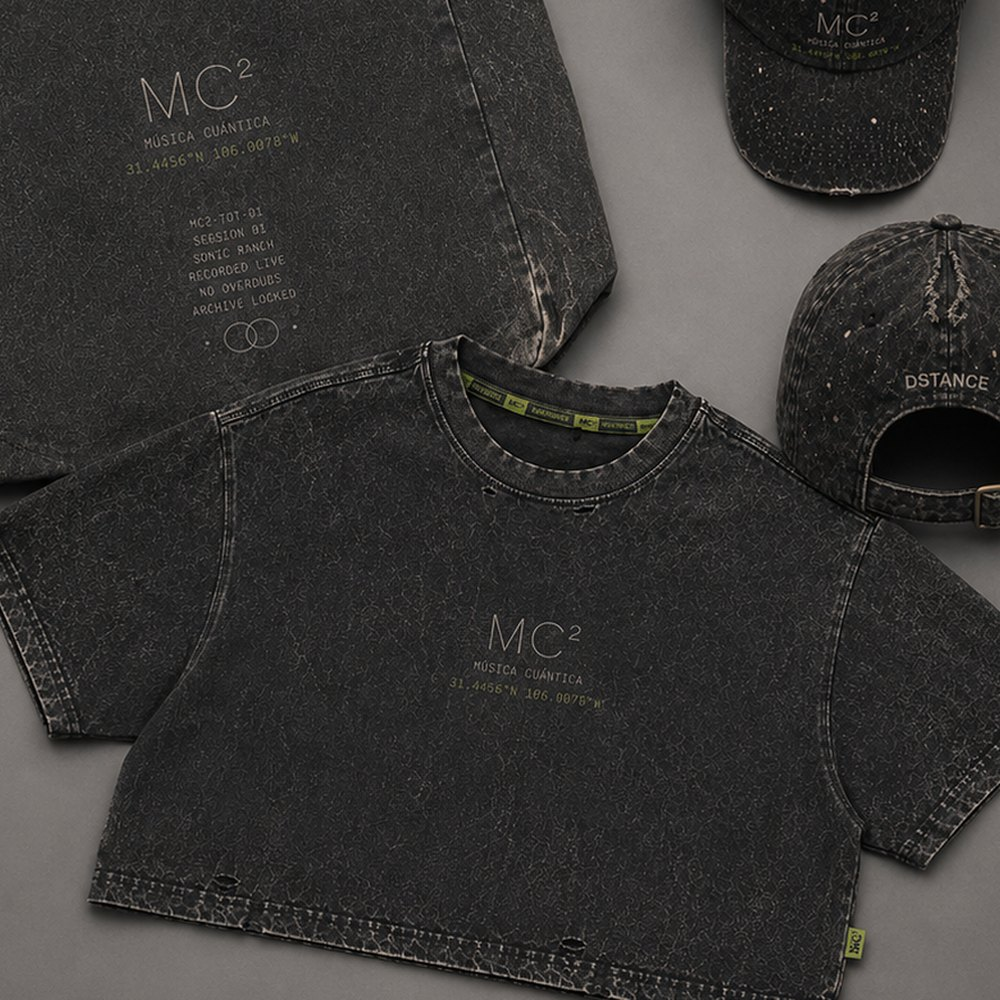
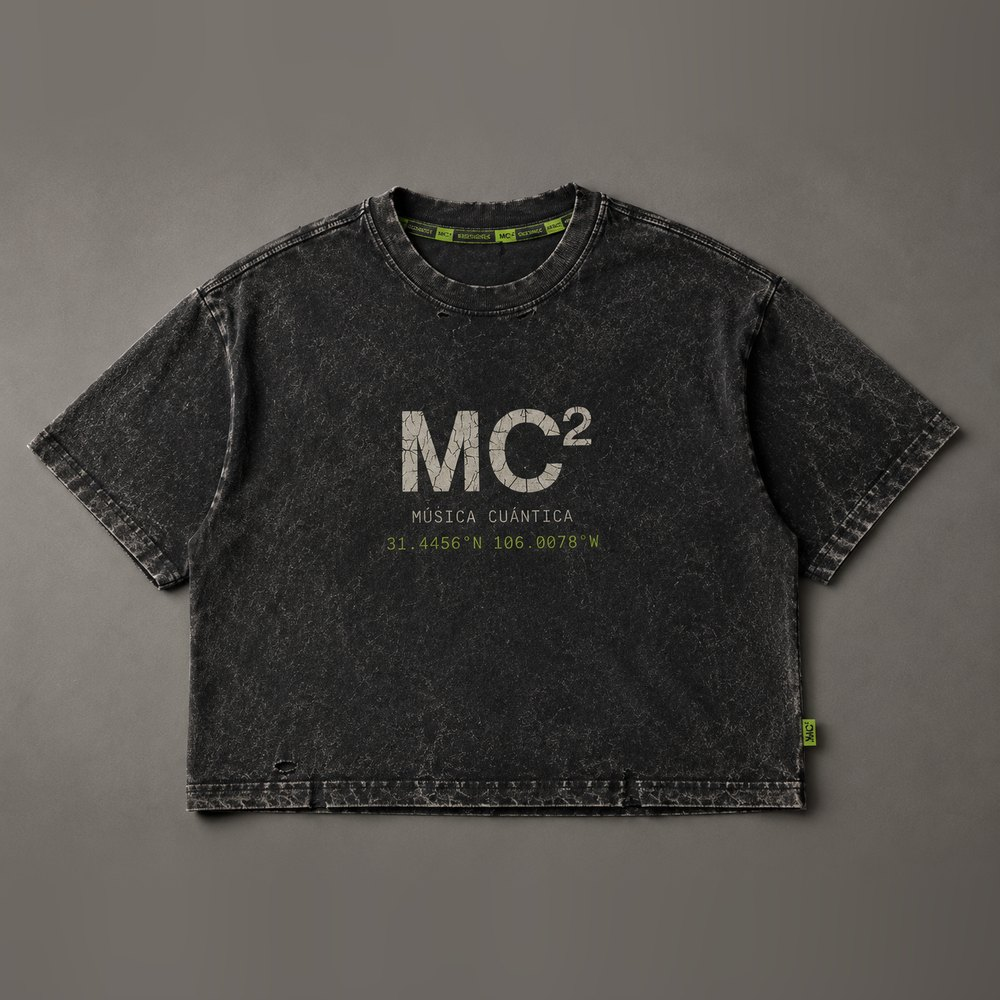
Playera MC²: foto nueva en plano como principal
La foto con la playera sola pasa a ser la principal (llevada a cuadro
extendiendo el fondo gris). La foto con tote y gorras queda como
segunda vista de la playera y del bundle.

Claude-Session: https://claude.ai/code/session_01RsjmRwgt6kXdwBVZybYm2j

diff --git a/index.html b/index.html
@@ -1138,6 +1138,12 @@
         description: "Jersey boxy 250 g, print cuarteado, destrucción a mano. Versión glow disponible.",
         photo: { src: "photos/mc2-tee-01.jpg", width: 1000, height: 1000,
                  alt: "Playera MC² boxy en negro mineral deslavado con el lockup MC² marfil cuarteado y coordenadas en verde químico" },
+        gallery: [
+          { src: "photos/mc2-tee-01.jpg", width: 1000, height: 1000,
+            alt: "Playera MC² boxy en negro mineral deslavado con el lockup MC² marfil cuarteado y coordenadas en verde químico" },
+          { src: "photos/mc2-coleccion-flat.jpg", width: 1000, height: 1000,
+            alt: "La playera MC² sobre el tote MC² y las dos gorras de Session 01, en negro mineral deslavado" },
+        ],
         details: [
           "Playera boxy cortada y cosida sobre patrón propio: hombro caído y manga corta de época. El fit es la mitad de la edad.",
           "El lockup MC² se imprime en marfil antes del lavado, así se cuartea junto con la tela. Las coordenadas en verde químico entran después: la señal queda nítida sobre la prenda gastada.",
@@ -1237,6 +1243,8 @@
         gallery: [
           { src: "photos/mc2-bundle-look.jpg", width: 1000, height: 1502,
             alt: "Look completo de Session 01: playera MC² boxy, gorra MC² y tote MC² en negro mineral deslavado" },
+          { src: "photos/mc2-coleccion-flat.jpg", width: 1000, height: 1000,
+            alt: "La playera MC² sobre el tote MC² y las dos gorras de Session 01, en negro mineral deslavado" },
           { src: "photos/mc2-tee-01.jpg", width: 1000, height: 1000,
             alt: "Playera MC² boxy en negro mineral deslavado con el lockup MC² marfil cuarteado y coordenadas en verde químico" },
           { src: "photos/mc2-cap-01.jpg", width: 780, height: 780,
